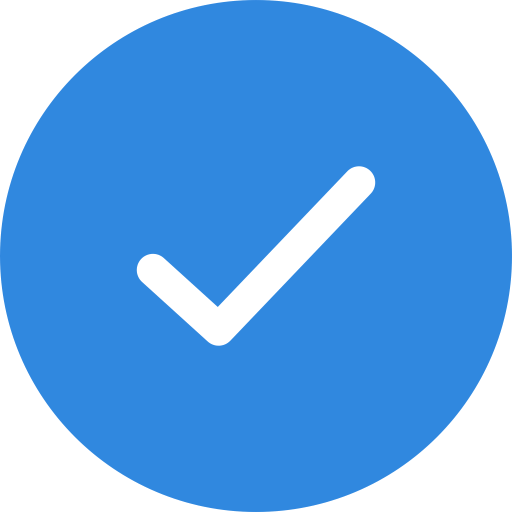
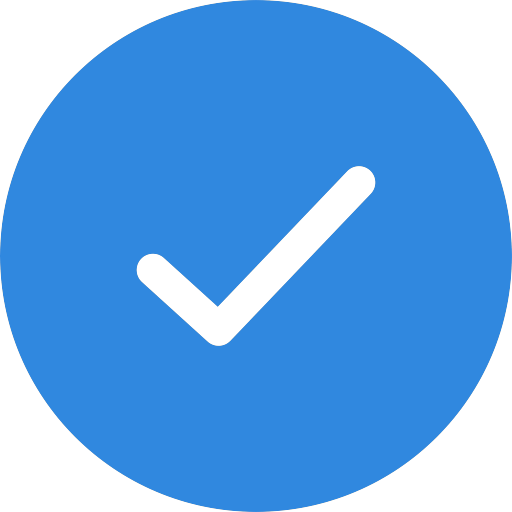
fix animation

diff --git a/src/popup.tsx b/src/popup.tsx
@@ -57,16 +57,16 @@ const Popup = () => {
 
     switch (route) {
         case Route.Home:
-            return <div className={styles.container}>
+            // Shady setting the height here explicitly but otherwise animations won't work properly
+            return <div className={styles.container} style={{'height': '265px'}}>
                 <div className={outAnimationClass}>
-                    {/*<span>{getValidDuration()}</span>*/}
                     {storage ?
                         <Home storage={storage} navigate={route => changeRoute(route, styles["out-left"])}
                               setOn={setOn}/> : ''}
                 </div>
             </div>
         case Route.Options:
-            return <div className={styles.container + ' ' + styles.subpage}>
+            return <div className={styles.container} style={{'height': '319px'}}>
                 <div className={outAnimationClass}>
                     <Subpage back={() => changeRoute(Route.Home, styles["out-right"])} title="Options">
                         { storage ? <Options storage={storage} updateOptions={updateOptions}></Options> : ''}
@@ -75,7 +75,7 @@ const Popup = () => {
 
             </div>
         case Route.Inspect:
-            return <div className={styles.container + ' ' + styles.subpage}>
+            return <div className={styles.container} style={{'height': '507px'}}>
                 <div className={outAnimationClass}>
                     <Subpage back={() => changeRoute(Route.Home, styles["out-right"])} title="Inspect">
                         { storage ? <Inspect storage={storage}></Inspect> : ''}

diff --git a/src/styles/popup.module.css b/src/styles/popup.module.css
@@ -9,13 +9,8 @@
     color: white;
     box-sizing: border-box;
 
-    height: 265px;
     overflow: hidden;
-    transition: height 0.2s ease-in-out; /* back animation doesn't work! */
-}
-
-.subpage {
-    height: calc-size(auto, size);
+    transition: height 0.2s ease-in-out;
 }
 
 
